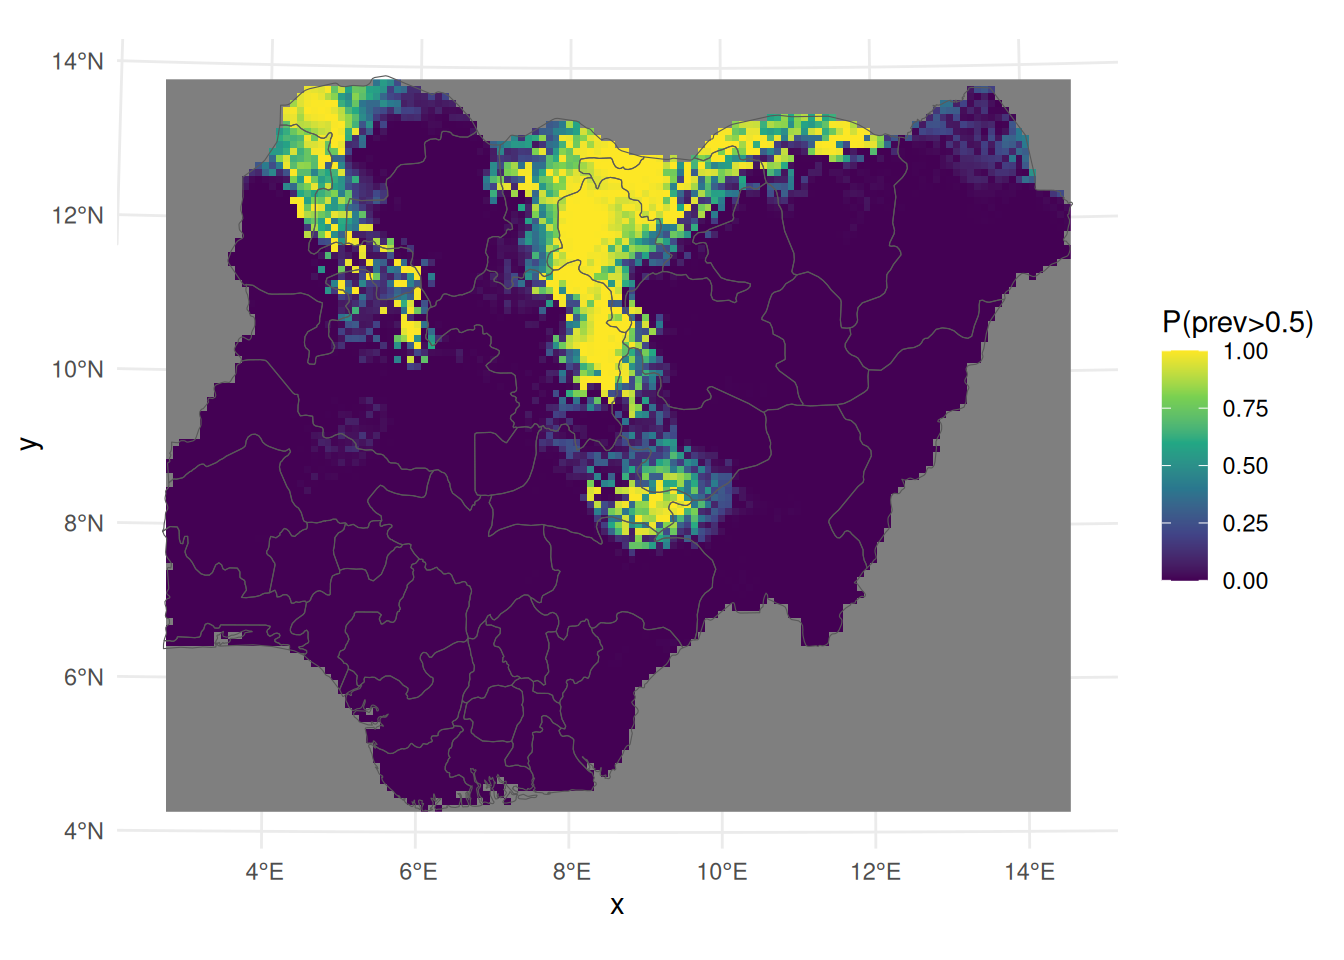
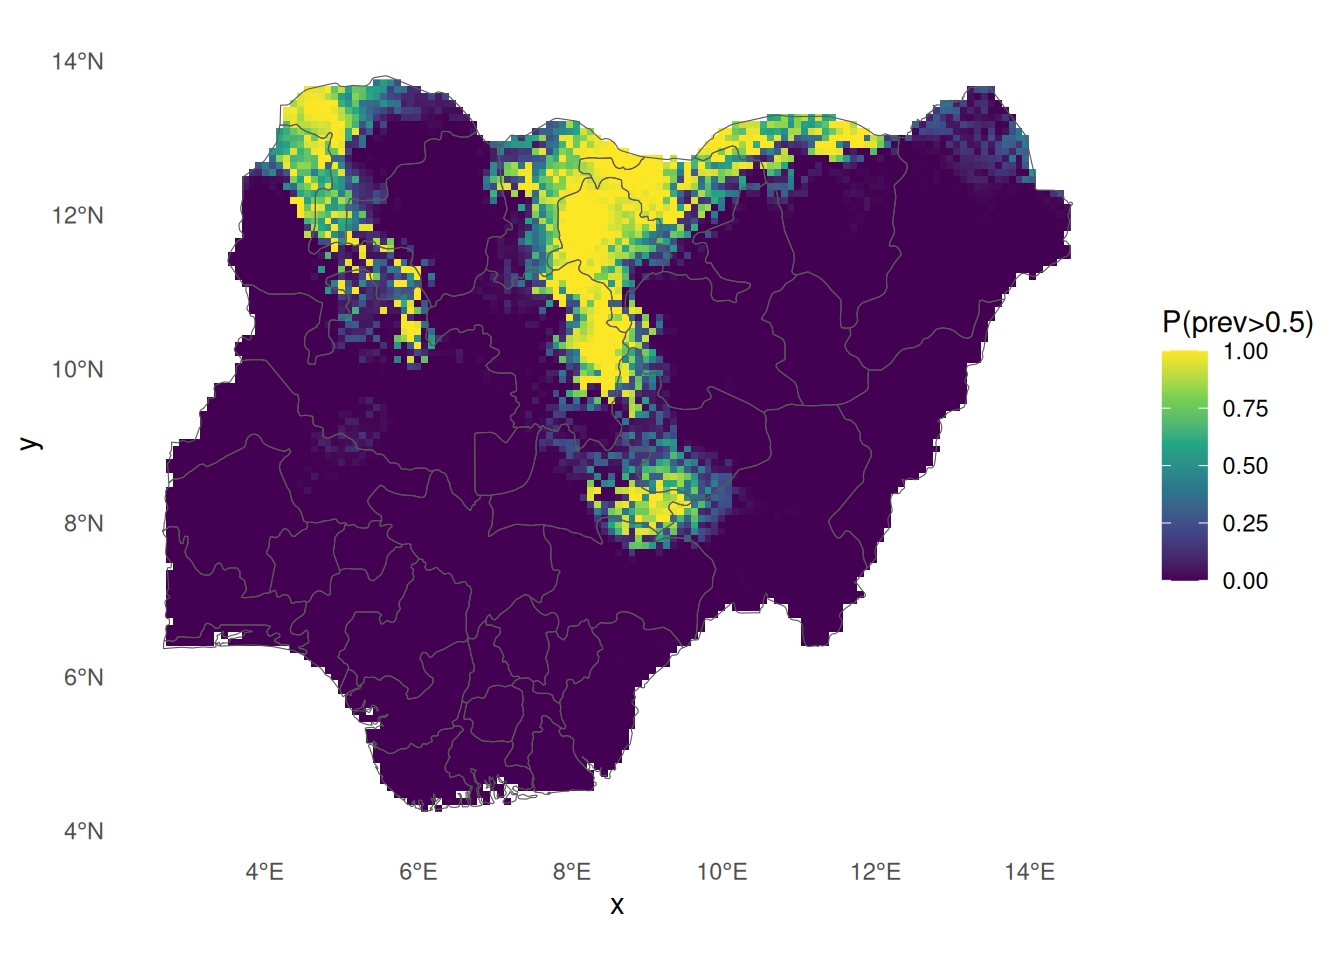
Include plot image files for website

Changed region(s): [[0.125, 0.25, 0.8125, 0.8438], [0.125, 0.0625, 0.8125, 0.4688]]

diff --git a/docs/day1.html b/docs/day1.html
@@ -541,10 +541,15 @@ Posterior summaries for the linear predictor and the fitted values are computed
 <details class="code-fold">
 <summary>Code</summary>
 <div class="sourceCode cell-code" id="cb12"><pre class="sourceCode r code-with-copy"><code class="sourceCode r"><span id="cb12-1"><a href="#cb12-1" aria-hidden="true" tabindex="-1"></a><span class="fu">ggplot</span>() <span class="sc">+</span></span>
-<span id="cb12-2"><a href="#cb12-2" aria-hidden="true" tabindex="-1"></a><span class="fu">geom_stars</span>(<span class="at">data=</span>pred_binom_r) <span class="sc">+</span></span>
-<span id="cb12-3"><a href="#cb12-3" aria-hidden="true" tabindex="-1"></a><span class="fu">scale_fill_viridis_c</span>(<span class="at">name=</span><span class="st">"Prev"</span>) <span class="sc">+</span></span>
-<span id="cb12-4"><a href="#cb12-4" aria-hidden="true" tabindex="-1"></a><span class="fu">geom_sf</span>(<span class="at">data=</span>nga_admin1, <span class="at">fill=</span><span class="cn">NA</span>) <span class="sc">+</span></span>
-<span id="cb12-5"><a href="#cb12-5" aria-hidden="true" tabindex="-1"></a><span class="fu">theme_minimal</span>()</span></code><button title="Copy to Clipboard" class="code-copy-button"><i class="bi"></i></button></pre></div>
+<span id="cb12-2"><a href="#cb12-2" aria-hidden="true" tabindex="-1"></a>  <span class="fu">geom_stars</span>(<span class="at">data=</span>pred_binom_r, <span class="at">na.rm =</span> <span class="cn">TRUE</span>) <span class="sc">+</span></span>
+<span id="cb12-3"><a href="#cb12-3" aria-hidden="true" tabindex="-1"></a>  <span class="fu">scale_fill_viridis_c</span>(<span class="at">name=</span><span class="st">"Prev"</span>, <span class="at">na.value =</span> <span class="cn">NA</span>) <span class="sc">+</span></span>
+<span id="cb12-4"><a href="#cb12-4" aria-hidden="true" tabindex="-1"></a>  <span class="fu">geom_sf</span>(<span class="at">data=</span>nga_admin1, <span class="at">fill=</span><span class="cn">NA</span>) <span class="sc">+</span></span>
+<span id="cb12-5"><a href="#cb12-5" aria-hidden="true" tabindex="-1"></a>  <span class="fu">theme_minimal</span>() <span class="sc">+</span></span>
+<span id="cb12-6"><a href="#cb12-6" aria-hidden="true" tabindex="-1"></a>  <span class="fu">theme</span>(</span>
+<span id="cb12-7"><a href="#cb12-7" aria-hidden="true" tabindex="-1"></a>    <span class="at">panel.background =</span> <span class="fu">element_rect</span>(<span class="at">fill =</span> <span class="st">"white"</span>, <span class="at">colour =</span> <span class="cn">NA</span>),</span>
+<span id="cb12-8"><a href="#cb12-8" aria-hidden="true" tabindex="-1"></a>    <span class="at">plot.background  =</span> <span class="fu">element_rect</span>(<span class="at">fill =</span> <span class="st">"white"</span>, <span class="at">colour =</span> <span class="cn">NA</span>),</span>
+<span id="cb12-9"><a href="#cb12-9" aria-hidden="true" tabindex="-1"></a>    <span class="at">panel.grid       =</span> <span class="fu">element_blank</span>()</span>
+<span id="cb12-10"><a href="#cb12-10" aria-hidden="true" tabindex="-1"></a>  )</span></code><button title="Copy to Clipboard" class="code-copy-button"><i class="bi"></i></button></pre></div>
 </details>
 <div class="cell-output-display">
 <div>
@@ -580,10 +585,15 @@ Posterior summaries for the linear predictor and the fitted values are computed
 <span id="cb14-2"><a href="#cb14-2" aria-hidden="true" tabindex="-1"></a>exc_r <span class="ot">&lt;-</span> exc_r[<span class="fu">st_union</span>(nga_admin1)]</span>
 <span id="cb14-3"><a href="#cb14-3" aria-hidden="true" tabindex="-1"></a></span>
 <span id="cb14-4"><a href="#cb14-4" aria-hidden="true" tabindex="-1"></a><span class="fu">ggplot</span>() <span class="sc">+</span></span>
-<span id="cb14-5"><a href="#cb14-5" aria-hidden="true" tabindex="-1"></a><span class="fu">geom_stars</span>(<span class="at">data=</span>exc_r) <span class="sc">+</span></span>
-<span id="cb14-6"><a href="#cb14-6" aria-hidden="true" tabindex="-1"></a><span class="fu">scale_fill_viridis_c</span>(<span class="at">name=</span><span class="st">"P(prev&gt;0.5)"</span>, <span class="at">limits=</span><span class="fu">c</span>(<span class="dv">0</span>,<span class="dv">1</span>)) <span class="sc">+</span></span>
-<span id="cb14-7"><a href="#cb14-7" aria-hidden="true" tabindex="-1"></a><span class="fu">geom_sf</span>(<span class="at">data=</span>nga_admin1, <span class="at">fill=</span><span class="cn">NA</span>) <span class="sc">+</span></span>
-<span id="cb14-8"><a href="#cb14-8" aria-hidden="true" tabindex="-1"></a><span class="fu">theme_minimal</span>()</span></code><button title="Copy to Clipboard" class="code-copy-button"><i class="bi"></i></button></pre></div>
+<span id="cb14-5"><a href="#cb14-5" aria-hidden="true" tabindex="-1"></a>  <span class="fu">geom_stars</span>(<span class="at">data=</span>exc_r, <span class="at">na.rm =</span> <span class="cn">TRUE</span>) <span class="sc">+</span></span>
+<span id="cb14-6"><a href="#cb14-6" aria-hidden="true" tabindex="-1"></a>  <span class="fu">scale_fill_viridis_c</span>(<span class="at">name=</span><span class="st">"P(prev&gt;0.5)"</span>, <span class="at">limits=</span><span class="fu">c</span>(<span class="dv">0</span>,<span class="dv">1</span>), <span class="at">na.value =</span> <span class="cn">NA</span>) <span class="sc">+</span></span>
+<span id="cb14-7"><a href="#cb14-7" aria-hidden="true" tabindex="-1"></a>  <span class="fu">geom_sf</span>(<span class="at">data=</span>nga_admin1, <span class="at">fill=</span><span class="cn">NA</span>) <span class="sc">+</span></span>
+<span id="cb14-8"><a href="#cb14-8" aria-hidden="true" tabindex="-1"></a>  <span class="fu">theme_minimal</span>() <span class="sc">+</span> </span>
+<span id="cb14-9"><a href="#cb14-9" aria-hidden="true" tabindex="-1"></a>  <span class="fu">theme</span>(</span>
+<span id="cb14-10"><a href="#cb14-10" aria-hidden="true" tabindex="-1"></a>    <span class="at">panel.background =</span> <span class="fu">element_rect</span>(<span class="at">fill =</span> <span class="st">"white"</span>, <span class="at">colour =</span> <span class="cn">NA</span>),</span>
+<span id="cb14-11"><a href="#cb14-11" aria-hidden="true" tabindex="-1"></a>    <span class="at">plot.background  =</span> <span class="fu">element_rect</span>(<span class="at">fill =</span> <span class="st">"white"</span>, <span class="at">colour =</span> <span class="cn">NA</span>),</span>
+<span id="cb14-12"><a href="#cb14-12" aria-hidden="true" tabindex="-1"></a>    <span class="at">panel.grid       =</span> <span class="fu">element_blank</span>()</span>
+<span id="cb14-13"><a href="#cb14-13" aria-hidden="true" tabindex="-1"></a>  )</span></code><button title="Copy to Clipboard" class="code-copy-button"><i class="bi"></i></button></pre></div>
 </details>
 <div class="cell-output-display">
 <div>
@@ -740,10 +750,15 @@ Posterior summaries for the linear predictor and the fitted values are computed
 <div class="sourceCode cell-code" id="cb22"><pre class="sourceCode r code-with-copy"><code class="sourceCode r"><span id="cb22-1"><a href="#cb22-1" aria-hidden="true" tabindex="-1"></a>pred_st_r <span class="ot">&lt;-</span> <span class="fu">st_rasterize</span>(pred_st[<span class="st">"mean"</span>], <span class="at">dx=</span><span class="dv">10000</span>, <span class="at">dy=</span><span class="dv">10000</span>)</span>
 <span id="cb22-2"><a href="#cb22-2" aria-hidden="true" tabindex="-1"></a></span>
 <span id="cb22-3"><a href="#cb22-3" aria-hidden="true" tabindex="-1"></a><span class="fu">ggplot</span>() <span class="sc">+</span></span>
-<span id="cb22-4"><a href="#cb22-4" aria-hidden="true" tabindex="-1"></a><span class="fu">geom_stars</span>(<span class="at">data =</span> pred_st_r) <span class="sc">+</span></span>
-<span id="cb22-5"><a href="#cb22-5" aria-hidden="true" tabindex="-1"></a><span class="fu">scale_fill_viridis_c</span>(<span class="at">name=</span><span class="st">"Prev time 7"</span>) <span class="sc">+</span></span>
-<span id="cb22-6"><a href="#cb22-6" aria-hidden="true" tabindex="-1"></a><span class="fu">geom_sf</span>(<span class="at">data=</span>nga_admin1, <span class="at">fill=</span><span class="cn">NA</span>) <span class="sc">+</span></span>
-<span id="cb22-7"><a href="#cb22-7" aria-hidden="true" tabindex="-1"></a><span class="fu">theme_minimal</span>()</span></code><button title="Copy to Clipboard" class="code-copy-button"><i class="bi"></i></button></pre></div>
+<span id="cb22-4"><a href="#cb22-4" aria-hidden="true" tabindex="-1"></a>  <span class="fu">geom_stars</span>(<span class="at">data =</span> pred_st_r, <span class="at">na.rm =</span> <span class="cn">TRUE</span>) <span class="sc">+</span></span>
+<span id="cb22-5"><a href="#cb22-5" aria-hidden="true" tabindex="-1"></a>  <span class="fu">scale_fill_viridis_c</span>(<span class="at">name=</span><span class="st">"Prev time 7"</span>, <span class="at">na.value =</span> <span class="cn">NA</span>) <span class="sc">+</span></span>
+<span id="cb22-6"><a href="#cb22-6" aria-hidden="true" tabindex="-1"></a>  <span class="fu">geom_sf</span>(<span class="at">data=</span>nga_admin1, <span class="at">fill=</span><span class="cn">NA</span>) <span class="sc">+</span></span>
+<span id="cb22-7"><a href="#cb22-7" aria-hidden="true" tabindex="-1"></a>  <span class="fu">theme_minimal</span>() <span class="sc">+</span></span>
+<span id="cb22-8"><a href="#cb22-8" aria-hidden="true" tabindex="-1"></a>  <span class="fu">theme</span>(</span>
+<span id="cb22-9"><a href="#cb22-9" aria-hidden="true" tabindex="-1"></a>    <span class="at">panel.background =</span> <span class="fu">element_rect</span>(<span class="at">fill =</span> <span class="st">"white"</span>, <span class="at">colour =</span> <span class="cn">NA</span>),</span>
+<span id="cb22-10"><a href="#cb22-10" aria-hidden="true" tabindex="-1"></a>    <span class="at">plot.background  =</span> <span class="fu">element_rect</span>(<span class="at">fill =</span> <span class="st">"white"</span>, <span class="at">colour =</span> <span class="cn">NA</span>),</span>
+<span id="cb22-11"><a href="#cb22-11" aria-hidden="true" tabindex="-1"></a>    <span class="at">panel.grid       =</span> <span class="fu">element_blank</span>()</span>
+<span id="cb22-12"><a href="#cb22-12" aria-hidden="true" tabindex="-1"></a>  )</span></code><button title="Copy to Clipboard" class="code-copy-button"><i class="bi"></i></button></pre></div>
 </details>
 <div class="cell-output-display">
 <div>
